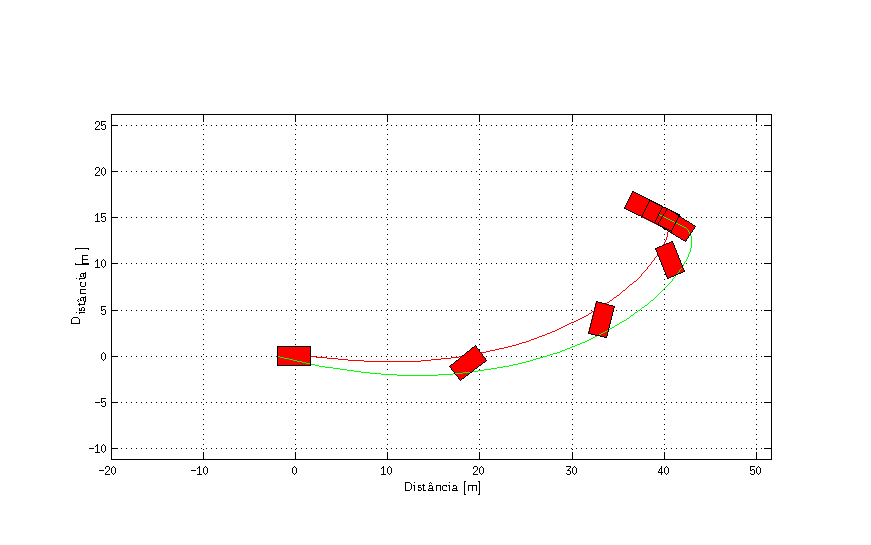
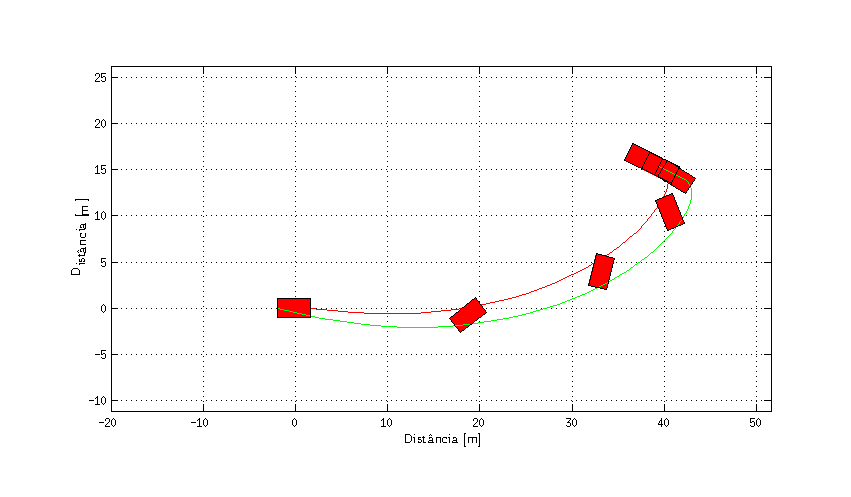
Figuras na pasta ilustracoes em svg

diff --git a/VeiculoArticuladoNaoLinear4GDL.html b/VeiculoArticuladoNaoLinear4GDL.html
@@ -67,7 +67,7 @@ table td { padding:7px 5px; text-align:left; vertical-align:top; border:1px soli
 
   </style></head><body><div class="content"><h1>Nonlinear 4 DOF articulated vehicle model</h1><!--introduction--><!--/introduction--><h2>Contents</h2><div><ul><li><a href="#1">Sintax</a></li><li><a href="#2">Arguments</a></li><li><a href="#3">Description</a></li><li><a href="#4">Code</a></li><li><a href="#7">Model</a></li><li><a href="#8">Matriz de massa</a></li><li><a href="#10">conversao</a></li><li><a href="#12">Properties</a></li><li><a href="#14">See Also</a></li></ul></div><h2>Sintax<a name="1"></a></h2><p><tt>dx = <i>VehicleModel</i>.Model(~,estados)</tt></p><h2>Arguments<a name="2"></a></h2><p>The following table describes the input arguments:</p><p> <table border=1 width="97%">
 <tr> <td width="30%"><tt>estados</tt></td> <td width="70%">Estados do modelo: [dPSI ALPHAT dPHI VEL PHI PSI XT YT]</td> </tr>
-</table> </p><h2>Description<a name="3"></a></h2><p>O &acirc;ngulo <img src="VeiculoArticuladoNaoLinear4GDL_eq46646.png" alt="$\psi$"> define a orienta&ccedil;&atilde;o do caminh&atilde;o-trator em rela&ccedil;&atilde;o ao referencial inercial. O estado <img src="VeiculoArticuladoNaoLinear4GDL_eq26509.png" alt="$\phi$"> &eacute; o &acirc;ngulo formado entre o caminh&atilde;o-trator e o semirreboque. O &acirc;ngulo <img src="VeiculoArticuladoNaoLinear4GDL_eq58160.png" alt="$\alpha_T$"> &eacute; o &acirc;ngulo de deriva do m&oacute;dulo dianteiro e &eacute; formado pelo vetor velocidade do centro de massa e a linha longitudinal do caminh&atilde;o-trator. Por fim, <img src="VeiculoArticuladoNaoLinear4GDL_eq77996.png" alt="$v$"> &eacute; o m&oacute;dulo do vetor velocidade do centro de massa do caminh&atilde;o-trator. Os pontos <img src="VeiculoArticuladoNaoLinear4GDL_eq57315.png" alt="$T$"> e <img src="VeiculoArticuladoNaoLinear4GDL_eq68961.png" alt="$S$"> s&atilde;o coincidentes com os centros de massa do caminh&atilde;o-trator e semirreboque, respectivamente. Os pontos F e R s&atilde;o coincidentes com os eixos dianteiro e traseiro do caminh&atilde;o-trator, respectivamente. M &eacute; o ponto que representa o eixo do semirreboque e A &eacute; o ponto de articula&ccedil;&atilde;o ente as duas unidades. As grandezas a, b e c da unidade motora s&atilde;o as dist&acirc;ncias entre os pontos F-T, T-R e R-A, respectivamente. Na unidade movida, d e e definem as dist&acirc;ncias entre os pontos A-S e S-M, respectivamente.</p><p><img vspace="5" hspace="5" src="ilustracoes/modeloArticulado.png" alt=""> </p><p>Este modelo &eacute; escrito na forma:</p><p><img src="VeiculoArticuladoNaoLinear4GDL_eq97379.png" alt="$$ M(x) \dot{x} = f(x)$$"></p><p>Onde <img src="VeiculoArticuladoNaoLinear4GDL_eq43551.png" alt="$x$"> &eacute; o vetor de estados, <img src="VeiculoArticuladoNaoLinear4GDL_eq58327.png" alt="$M(x)$"> &eacute; a matriz de massa do sistema e <img src="VeiculoArticuladoNaoLinear4GDL_eq37171.png" alt="$f(x)$"> &eacute; uma fun&ccedil;&atilde;o vetorial n&atilde;o linear. Logo, &eacute; necess&aacute;ria uma fun&ccedil;&atilde;o que permita a integra&ccedil;&atilde;o do sistema com a matriz de massa escrita explicitamente. Uma op&ccedil;&atilde;o &eacute; utilizar a fun&ccedil;&atilde;o <i>ode45</i>. Details: <a href="http://www.mathworks.com/help/matlab/ref/ode45.html?searchHighlight=%22mass%20matrix%22">ode45 (Mass matrix)</a></p><h2>Code<a name="4"></a></h2><pre class="codeinput"><span class="keyword">classdef</span> VeiculoArticuladoNaoLinear4GDL &lt; DinamicaVeicular.VeiculoArticulado
+</table> </p><h2>Description<a name="3"></a></h2><p>O &acirc;ngulo <img src="VeiculoArticuladoNaoLinear4GDL_eq46646.png" alt="$\psi$"> define a orienta&ccedil;&atilde;o do caminh&atilde;o-trator em rela&ccedil;&atilde;o ao referencial inercial. O estado <img src="VeiculoArticuladoNaoLinear4GDL_eq26509.png" alt="$\phi$"> &eacute; o &acirc;ngulo formado entre o caminh&atilde;o-trator e o semirreboque. O &acirc;ngulo <img src="VeiculoArticuladoNaoLinear4GDL_eq58160.png" alt="$\alpha_T$"> &eacute; o &acirc;ngulo de deriva do m&oacute;dulo dianteiro e &eacute; formado pelo vetor velocidade do centro de massa e a linha longitudinal do caminh&atilde;o-trator. Por fim, <img src="VeiculoArticuladoNaoLinear4GDL_eq77996.png" alt="$v$"> &eacute; o m&oacute;dulo do vetor velocidade do centro de massa do caminh&atilde;o-trator. Os pontos <img src="VeiculoArticuladoNaoLinear4GDL_eq57315.png" alt="$T$"> e <img src="VeiculoArticuladoNaoLinear4GDL_eq68961.png" alt="$S$"> s&atilde;o coincidentes com os centros de massa do caminh&atilde;o-trator e semirreboque, respectivamente. Os pontos F e R s&atilde;o coincidentes com os eixos dianteiro e traseiro do caminh&atilde;o-trator, respectivamente. M &eacute; o ponto que representa o eixo do semirreboque e A &eacute; o ponto de articula&ccedil;&atilde;o ente as duas unidades. As grandezas a, b e c da unidade motora s&atilde;o as dist&acirc;ncias entre os pontos F-T, T-R e R-A, respectivamente. Na unidade movida, d e e definem as dist&acirc;ncias entre os pontos A-S e S-M, respectivamente.</p><p><img vspace="5" hspace="5" src="ilustracoes/modeloArticulado.svg" alt=""> </p><p>Este modelo &eacute; escrito na forma:</p><p><img src="VeiculoArticuladoNaoLinear4GDL_eq97379.png" alt="$$ M(x) \dot{x} = f(x)$$"></p><p>Onde <img src="VeiculoArticuladoNaoLinear4GDL_eq43551.png" alt="$x$"> &eacute; o vetor de estados, <img src="VeiculoArticuladoNaoLinear4GDL_eq58327.png" alt="$M(x)$"> &eacute; a matriz de massa do sistema e <img src="VeiculoArticuladoNaoLinear4GDL_eq37171.png" alt="$f(x)$"> &eacute; uma fun&ccedil;&atilde;o vetorial n&atilde;o linear. Logo, &eacute; necess&aacute;ria uma fun&ccedil;&atilde;o que permita a integra&ccedil;&atilde;o do sistema com a matriz de massa escrita explicitamente. Uma op&ccedil;&atilde;o &eacute; utilizar a fun&ccedil;&atilde;o <i>ode45</i>. Details: <a href="http://www.mathworks.com/help/matlab/ref/ode45.html?searchHighlight=%22mass%20matrix%22">ode45 (Mass matrix)</a></p><h2>Code<a name="4"></a></h2><pre class="codeinput"><span class="keyword">classdef</span> VeiculoArticuladoNaoLinear4GDL &lt; DinamicaVeicular.VeiculoArticulado
 </pre><pre class="codeinput">	methods
 </pre><pre class="codeinput">        <span class="comment">% Constructor</span>
         <span class="keyword">function</span> self = VeiculoArticuladoNaoLinear4GDL(varargin)
@@ -137,7 +137,8 @@ table td { padding:7px 5px; text-align:left; vertical-align:top; border:1px soli
             <span class="comment">% Angulos de deriva n&atilde;o linear</span>
             ALPHAF = atan2((a*dPSI + VEL*sin(ALPHAT)),(VEL*cos(ALPHAT))) - DELTA;
             ALPHAR = atan2((-b*dPSI + VEL*sin(ALPHAT)),(VEL*cos(ALPHAT)));
-            ALPHAM = atan2(((d + e)*(dPHI - dPSI) + VEL*sin(ALPHAT + PHI) - b*dPSI*cos(PHI) - c*dPSI*cos(PHI)),(VEL*cos(ALPHAT + PHI) + b*dPSI*sin(PHI) + c*dPSI*sin(PHI)));
+            ALPHAM = atan2(((d + e)*(dPHI - dPSI) + VEL*sin(ALPHAT + PHI) - b*dPSI*cos(PHI) - <span class="keyword">...</span>
+                     c*dPSI*cos(PHI)),(VEL*cos(ALPHAT + PHI) + b*dPSI*sin(PHI) + c*dPSI*sin(PHI)));
 
             <span class="comment">% For&ccedil;as longitudinais</span>
             FxF = 0;
@@ -277,7 +278,7 @@ table td { padding:7px 5px; text-align:left; vertical-align:top; border:1px soli
 %% Description
 % O ângulo $\psi$ define a orientação do caminhão-trator em relação ao referencial inercial. O estado $\phi$ é o ângulo formado entre o caminhão-trator e o semirreboque. O ângulo $\alpha_T$ é o ângulo de deriva do módulo dianteiro e é formado pelo vetor velocidade do centro de massa e a linha longitudinal do caminhão-trator. Por fim, $v$ é o módulo do vetor velocidade do centro de massa do caminhão-trator. Os pontos $T$ e $S$ são coincidentes com os centros de massa do caminhão-trator e semirreboque, respectivamente. Os pontos F e R são coincidentes com os eixos dianteiro e traseiro do caminhão-trator, respectivamente. M é o ponto que representa o eixo do semirreboque e A é o ponto de articulação ente as duas unidades. As grandezas a, b e c da unidade motora são as distâncias entre os pontos F-T, T-R e R-A, respectivamente. Na unidade movida, d e e definem as distâncias entre os pontos A-S e S-M, respectivamente.
 %
-% <<ilustracoes/modeloArticulado.png>>
+% <<ilustracoes/modeloArticulado.svg>>
 %
 % Este modelo é escrito na forma:
 %
@@ -361,7 +362,8 @@ classdef VeiculoArticuladoNaoLinear4GDL < DinamicaVeicular.VeiculoArticulado
             % Angulos de deriva não linear
             ALPHAF = atan2((a*dPSI + VEL*sin(ALPHAT)),(VEL*cos(ALPHAT))) - DELTA;
             ALPHAR = atan2((-b*dPSI + VEL*sin(ALPHAT)),(VEL*cos(ALPHAT)));
-            ALPHAM = atan2(((d + e)*(dPHI - dPSI) + VEL*sin(ALPHAT + PHI) - b*dPSI*cos(PHI) - c*dPSI*cos(PHI)),(VEL*cos(ALPHAT + PHI) + b*dPSI*sin(PHI) + c*dPSI*sin(PHI)));
+            ALPHAM = atan2(((d + e)*(dPHI - dPSI) + VEL*sin(ALPHAT + PHI) - b*dPSI*cos(PHI) - ...
+                     c*dPSI*cos(PHI)),(VEL*cos(ALPHAT + PHI) + b*dPSI*sin(PHI) + c*dPSI*sin(PHI)));
 
             % Forças longitudinais
             FxF = 0;

diff --git a/index.html b/index.html
@@ -66,7 +66,7 @@ table td { padding:7px 5px; text-align:left; vertical-align:top; border:1px soli
 
 
   </style></head><body><div class="content"><h1>Din&acirc;mica Veicular</h1><!--introduction--><p>Este reposit&oacute;rio tem como objetivo servir de biblioteca de fun&ccedil;&otilde;es destinadas ao estudo de din&acirc;mica veicular.</p><!--/introduction--><h2>Contents</h2><div><ul><li><a href="#1">Instructions</a></li><li><a href="#2">Description</a></li><li><a href="#3">Templates</a></li><li><a href="#4">Tire model</a></li><li><a href="#5">Vehicle model</a></li><li><a href="#6">Graphics</a></li></ul></div><h2>Instructions<a name="1"></a></h2><p>Para a utiliza&ccedil;&atilde;o do pacote &eacute; necess&aacute;rio realizar os seguintes passos:</p><div><ul><li>Baixar o pacote Dinamica-Veicular clicando em "Download ZIP" na p&aacute;gina <a href="https://github.com/andresmendes/Dinamica-Veicular">https://github.com/andresmendes/Dinamica-Veicular</a>.</li><li>Salvar o pacote (pasta "+DinamicaVeicular") num <i>path</i> do MATLAB&reg; ou adicionar o caminho na lista de <i>paths</i>. Mais detalhes em <a href="http://www.mathworks.com/help/matlab/ref/path.html">help path</a>.</li><li>Importar o pacote inteiro com o comando:</li></ul></div><pre class="codeinput">import <span class="string">DinamicaVeicular.*</span>
-</pre><h2>Description<a name="2"></a></h2><p>Este reposit&oacute;rio &eacute; destinado &agrave; organizar as fun&ccedil;&otilde;es necess&aacute;rias para a integra&ccedil;&atilde;o num&eacute;rica das equa&ccedil;&otilde;es de movimento de ve&iacute;culos e ilustrar o resultado. A estrutura m&iacute;nima de simula&ccedil;&atilde;o se encontra no fluxograma abaixo. Com os par&acirc;metros de integra&ccedil;&atilde;o e condi&ccedil;&otilde;es iniciais o modelo do sistema pode ser integrado para a obten&ccedil;&atilde;o da evolu&ccedil;&atilde;o dos estados em fun&ccedil;&atilde;o do tempo. O modelo do sistema consiste na combina&ccedil;&atilde;o do modelo de ve&iacute;culo com o modelo de pneu e seus respectivos par&acirc;metros. Por fim, &eacute; poss&iacute;vel gerar os gr&aacute;ficos &agrave; partir dos resultados. Portanto, as fun&ccedil;&otilde;es dispon&iacute;veis neste reposit&oacute;rio procuram realizar as tarefas representadas pelos blocos de <b>modelo de ve&iacute;culo</b>, <b>modelo de pneu</b> e <b>gr&aacute;ficos</b>.</p><p><img vspace="5" hspace="5" src="ilustracoes/fluxograma.png" alt=""> </p><h2>Templates<a name="3"></a></h2><p>Os templates realizam uma simula&ccedil;&atilde;o de ve&iacute;culo utilizando os elementos descritos no fluxograma acima. Para auxiliar os primeiros passos na utiliza&ccedil;&atilde;o das fun&ccedil;&otilde;es est&atilde;o dispon&iacute;veis dois templates:</p><div><ul><li>Simula&ccedil;&atilde;o de ve&iacute;culo simples: <a href="TemplateSimples.html">TemplateSimples.m</a></li><li>Simula&ccedil;&atilde;o de ve&iacute;culo articulado: <a href="TemplateArticulado.html">TemplateArticulado.m</a></li></ul></div><h2>Tire model<a name="4"></a></h2><p>Rela&ccedil;&atilde;o entre a for&ccedil;a lateral e o &acirc;ngulo de deriva.</p><p>Modelos de pneu:</p><div><ul><li><a href="PneuLinear.html">Pneu Linar</a></li><li><a href="PneuPolinomial.html">Pneu Polinomial</a></li><li><a href="PneuPacejka1989.html">Pneu Pacejka</a></li></ul></div><p>Extra:</p><div><ul><li><a href="ComparacaoPneu.html">Compara&ccedil;&atilde;o pneu</a></li></ul></div><p>Outros: <a href="Pneu.html">Pneu (Abstract)</a></p><h2>Vehicle model<a name="5"></a></h2><p>Fun&ccedil;&atilde;o com a equa&ccedil;&atilde;o de estados do modelo.</p><p>Modelo de ve&iacute;culo:</p><div><ul><li><a href="VeiculoSimplesLinear2GDL.html">Veiculo Simples Linear 2 GDL</a> (Pendente)</li><li><a href="VeiculoSimplesNaoLinear3GDL.html">Veiculo Simples N&atilde;o Linear 3 GDL</a></li><li><a href="VeiculoArticuladoLinear4GDL.html">Veiculo Articulado Linear 3 GDL</a> (Pendente)</li><li><a href="VeiculoArticuladoNaoLinear4GDL.html">Veiculo Articulado N&atilde;o Linear 4 GDL</a></li></ul></div><p>Outros: <a href="VeiculoSimples.html">Veiculo simples (Abstract)</a> | <a href="VeiculoArticulado.html">Veiculo articulado (Abstract)</a></p><h2>Graphics<a name="6"></a></h2><p>Fun&ccedil;&otilde;es para a gera&ccedil;&atilde;o de ilustra&ccedil;&otilde;es: <a href="Graficos.html">Graficos</a>.</p><p class="footer"><br><a href="http://www.mathworks.com/products/matlab/">Published with MATLAB&reg; R2013a</a><br></p></div><!--
+</pre><h2>Description<a name="2"></a></h2><p>Este reposit&oacute;rio &eacute; destinado &agrave; organizar as fun&ccedil;&otilde;es necess&aacute;rias para a integra&ccedil;&atilde;o num&eacute;rica das equa&ccedil;&otilde;es de movimento de ve&iacute;culos e ilustrar o resultado. A estrutura m&iacute;nima de simula&ccedil;&atilde;o se encontra no fluxograma abaixo. Com os par&acirc;metros de integra&ccedil;&atilde;o e condi&ccedil;&otilde;es iniciais o modelo do sistema pode ser integrado para a obten&ccedil;&atilde;o da evolu&ccedil;&atilde;o dos estados em fun&ccedil;&atilde;o do tempo. O modelo do sistema consiste na combina&ccedil;&atilde;o do modelo de ve&iacute;culo com o modelo de pneu e seus respectivos par&acirc;metros. Por fim, &eacute; poss&iacute;vel gerar os gr&aacute;ficos &agrave; partir dos resultados. Portanto, as fun&ccedil;&otilde;es dispon&iacute;veis neste reposit&oacute;rio procuram realizar as tarefas representadas pelos blocos de <b>modelo de ve&iacute;culo</b>, <b>modelo de pneu</b> e <b>gr&aacute;ficos</b>.</p><p><img vspace="5" hspace="5" src="ilustracoes/fluxograma.svg" alt=""> </p><h2>Templates<a name="3"></a></h2><p>Os templates realizam uma simula&ccedil;&atilde;o de ve&iacute;culo utilizando os elementos descritos no fluxograma acima. Para auxiliar os primeiros passos na utiliza&ccedil;&atilde;o das fun&ccedil;&otilde;es est&atilde;o dispon&iacute;veis dois templates:</p><div><ul><li>Simula&ccedil;&atilde;o de ve&iacute;culo simples: <a href="TemplateSimples.html">TemplateSimples.m</a></li><li>Simula&ccedil;&atilde;o de ve&iacute;culo articulado: <a href="TemplateArticulado.html">TemplateArticulado.m</a></li></ul></div><h2>Tire model<a name="4"></a></h2><p>Rela&ccedil;&atilde;o entre a for&ccedil;a lateral e o &acirc;ngulo de deriva.</p><p>Modelos de pneu:</p><div><ul><li><a href="PneuLinear.html">Pneu Linar</a></li><li><a href="PneuPolinomial.html">Pneu Polinomial</a></li><li><a href="PneuPacejka1989.html">Pneu Pacejka</a></li></ul></div><p>Extra:</p><div><ul><li><a href="ComparacaoPneu.html">Compara&ccedil;&atilde;o pneu</a></li></ul></div><p>Outros: <a href="Pneu.html">Pneu (Abstract)</a></p><h2>Vehicle model<a name="5"></a></h2><p>Fun&ccedil;&atilde;o com a equa&ccedil;&atilde;o de estados do modelo.</p><p>Modelo de ve&iacute;culo:</p><div><ul><li><a href="VeiculoSimplesLinear2GDL.html">Veiculo Simples Linear 2 GDL</a> (Pendente)</li><li><a href="VeiculoSimplesNaoLinear3GDL.html">Veiculo Simples N&atilde;o Linear 3 GDL</a></li><li><a href="VeiculoArticuladoLinear4GDL.html">Veiculo Articulado Linear 3 GDL</a> (Pendente)</li><li><a href="VeiculoArticuladoNaoLinear4GDL.html">Veiculo Articulado N&atilde;o Linear 4 GDL</a></li></ul></div><p>Outros: <a href="VeiculoSimples.html">Veiculo simples (Abstract)</a> | <a href="VeiculoArticulado.html">Veiculo articulado (Abstract)</a></p><h2>Graphics<a name="6"></a></h2><p>Fun&ccedil;&otilde;es para a gera&ccedil;&atilde;o de ilustra&ccedil;&otilde;es: <a href="Graficos.html">Graficos</a>.</p><p class="footer"><br><a href="http://www.mathworks.com/products/matlab/">Published with MATLAB&reg; R2013a</a><br></p></div><!--
 ##### SOURCE BEGIN #####
 %% Dinâmica Veicular
 % Este repositório tem como objetivo servir de biblioteca de funções destinadas ao estudo de dinâmica veicular.
@@ -84,7 +84,7 @@ import DinamicaVeicular.*
 %% Description
 % Este repositório é destinado à organizar as funções necessárias para a integração numérica das equações de movimento de veículos e ilustrar o resultado. A estrutura mínima de simulação se encontra no fluxograma abaixo. Com os parâmetros de integração e condições iniciais o modelo do sistema pode ser integrado para a obtenção da evolução dos estados em função do tempo. O modelo do sistema consiste na combinação do modelo de veículo com o modelo de pneu e seus respectivos parâmetros. Por fim, é possível gerar os gráficos à partir dos resultados. Portanto, as funções disponíveis neste repositório procuram realizar as tarefas representadas pelos blocos de *modelo de veículo*, *modelo de pneu* e *gráficos*.
 %
-% <<ilustracoes/fluxograma.png>>
+% <<ilustracoes/fluxograma.svg>>
 %
 %% Templates
 % Os templates realizam uma simulação de veículo utilizando os elementos descritos no fluxograma acima.

diff --git a/ComparacaoPneu.html b/ComparacaoPneu.html
@@ -65,7 +65,7 @@ table td { padding:7px 5px; text-align:left; vertical-align:top; border:1px soli
 
 
 
-  </style></head><body><div class="content"><h1>Tire comparison</h1><!--introduction--><p>Compara&ccedil;&atilde;o entre os modelos de pneu: <a href="PneuLinear.html">linear</a>, <a href="PneuPolinomial.html">polinomial</a> e <a href="PneuPacejka1989.html">Pacejka 1989</a>.</p><!--/introduction--><h2>Contents</h2><div><ul><li><a href="#1">Description</a></li><li><a href="#2">Equival&ecirc;ncia</a></li><li><a href="#3">Compara&ccedil;&atilde;o dos modelos</a></li><li><a href="#5">Compara&ccedil;&atilde;o tratamento do &acirc;ngulo de deriva</a></li><li><a href="#7">References</a></li><li><a href="#8">See Also</a></li></ul></div><h2>Description<a name="1"></a></h2><p>O modelo de pneu relaciona a for&ccedil;a lateral com o &acirc;ngulo de deriva (&Acirc;ngulo formado entre o vetor velocidade do centro do pneu com o plano longitudinal do pneu). A rela&ccedil;&atilde;o t&iacute;pica entre essas duas grandezas pode ser observada na figura abaixo (Adaptado de [1]). Al&eacute;m disso &eacute; poss&iacute;vel verificar a defini&ccedil;&atilde;o do &acirc;ngulo de deriva.</p><p><img vspace="5" hspace="5" src="ilustracoes/CurvaCaracteristica.png" alt=""> </p><h2>Equival&ecirc;ncia<a name="2"></a></h2><p>Supondo um modelo de pneu <a href="PneuPacejka1989.html">Pacejka 1989</a> de refer&ecirc;ncia &eacute; poss&iacute;vel obter um modelo <a href="PneuLinear.html">linear</a> e <a href="PneuPolinomial.html">polinomial</a> equivalente. Isto &eacute; feito igualando o coeficiente de rigidez lateral dos tr&ecirc;s modelos e igualando a for&ccedil;a lateral m&aacute;xima dos modelos <a href="PneuPolinomial.html">polinomial</a> e <a href="PneuPacejka1989.html">Pacejka 1989</a>.</p><p>O modelo <a href="PneuPacejka1989.html">Pacejka 1989</a> &eacute; caracterizado essencialmente pelos par&acirc;metros <img src="ComparacaoPneu_eq45610.png" alt="$a_0$">, <img src="ComparacaoPneu_eq32432.png" alt="$a_1$">, <img src="ComparacaoPneu_eq12549.png" alt="$a_2$">, <img src="ComparacaoPneu_eq58660.png" alt="$a_3$">, <img src="ComparacaoPneu_eq25467.png" alt="$a_4$">, <img src="ComparacaoPneu_eq87750.png" alt="$a_5$">, <img src="ComparacaoPneu_eq14147.png" alt="$a_6$"> e <img src="ComparacaoPneu_eq94571.png" alt="$a_7$"> que d&atilde;o origem aos coeficientes <img src="ComparacaoPneu_eq73617.png" alt="$B$">, <img src="ComparacaoPneu_eq22407.png" alt="$C$">, <img src="ComparacaoPneu_eq35719.png" alt="$D$"> e <img src="ComparacaoPneu_eq85525.png" alt="$E$"> que podem ser usados na defini&ccedil;&atilde;o dos coeficientes dos modelos equivalentes.</p><p>O modelo <a href="PneuLinear.html">linear</a> equivalente possui cornering stiffness <img src="ComparacaoPneu_eq14888.png" alt="$K$"> dado por:</p><p><img src="ComparacaoPneu_eq89897.png" alt="$$ K = B C D$$"></p><p>O modelo <a href="PneuPolinomial.html">polinomial</a> equivalente possui coeficientes <img src="ComparacaoPneu_eq27372.png" alt="$k_1$"> e <img src="ComparacaoPneu_eq32346.png" alt="$k_2$"> dados por:</p><p><img src="ComparacaoPneu_eq79966.png" alt="$$ k_1 = B C D $$"></p><p><img src="ComparacaoPneu_eq36416.png" alt="$$ k_2 = (4 k_1^3)/(27 F_{y,Max}^2) $$"></p><p>Onde <img src="ComparacaoPneu_eq62432.png" alt="$F_{y,Max}$"> &eacute; a for&ccedil;a lateral m&aacute;xima da curva caracter&iacute;stica de refer&ecirc;ncia.</p><h2>Compara&ccedil;&atilde;o dos modelos<a name="3"></a></h2><pre class="codeinput"><span class="comment">% Code start</span>
+  </style></head><body><div class="content"><h1>Tire comparison</h1><!--introduction--><p>Compara&ccedil;&atilde;o entre os modelos de pneu: <a href="PneuLinear.html">linear</a>, <a href="PneuPolinomial.html">polinomial</a> e <a href="PneuPacejka1989.html">Pacejka 1989</a>.</p><!--/introduction--><h2>Contents</h2><div><ul><li><a href="#1">Description</a></li><li><a href="#2">Equival&ecirc;ncia</a></li><li><a href="#3">Compara&ccedil;&atilde;o dos modelos</a></li><li><a href="#5">Compara&ccedil;&atilde;o tratamento do &acirc;ngulo de deriva</a></li><li><a href="#7">References</a></li><li><a href="#8">See Also</a></li></ul></div><h2>Description<a name="1"></a></h2><p>O modelo de pneu relaciona a for&ccedil;a lateral com o &acirc;ngulo de deriva (&Acirc;ngulo formado entre o vetor velocidade do centro do pneu com o plano longitudinal do pneu). A rela&ccedil;&atilde;o t&iacute;pica entre essas duas grandezas pode ser observada na figura abaixo (Adaptado de [1]). Al&eacute;m disso &eacute; poss&iacute;vel verificar a defini&ccedil;&atilde;o do &acirc;ngulo de deriva.</p><p><img vspace="5" hspace="5" src="ilustracoes/CurvaCaracteristica.svg" alt=""> </p><h2>Equival&ecirc;ncia<a name="2"></a></h2><p>Supondo um modelo de pneu <a href="PneuPacejka1989.html">Pacejka 1989</a> de refer&ecirc;ncia &eacute; poss&iacute;vel obter um modelo <a href="PneuLinear.html">linear</a> e <a href="PneuPolinomial.html">polinomial</a> equivalente. Isto &eacute; feito igualando o coeficiente de rigidez lateral dos tr&ecirc;s modelos e igualando a for&ccedil;a lateral m&aacute;xima dos modelos <a href="PneuPolinomial.html">polinomial</a> e <a href="PneuPacejka1989.html">Pacejka 1989</a>.</p><p>O modelo <a href="PneuPacejka1989.html">Pacejka 1989</a> &eacute; caracterizado essencialmente pelos par&acirc;metros <img src="ComparacaoPneu_eq45610.png" alt="$a_0$">, <img src="ComparacaoPneu_eq32432.png" alt="$a_1$">, <img src="ComparacaoPneu_eq12549.png" alt="$a_2$">, <img src="ComparacaoPneu_eq58660.png" alt="$a_3$">, <img src="ComparacaoPneu_eq25467.png" alt="$a_4$">, <img src="ComparacaoPneu_eq87750.png" alt="$a_5$">, <img src="ComparacaoPneu_eq14147.png" alt="$a_6$"> e <img src="ComparacaoPneu_eq94571.png" alt="$a_7$"> que d&atilde;o origem aos coeficientes <img src="ComparacaoPneu_eq73617.png" alt="$B$">, <img src="ComparacaoPneu_eq22407.png" alt="$C$">, <img src="ComparacaoPneu_eq35719.png" alt="$D$"> e <img src="ComparacaoPneu_eq85525.png" alt="$E$"> que podem ser usados na defini&ccedil;&atilde;o dos coeficientes dos modelos equivalentes.</p><p>O modelo <a href="PneuLinear.html">linear</a> equivalente possui cornering stiffness <img src="ComparacaoPneu_eq14888.png" alt="$K$"> dado por:</p><p><img src="ComparacaoPneu_eq89897.png" alt="$$ K = B C D$$"></p><p>O modelo <a href="PneuPolinomial.html">polinomial</a> equivalente possui coeficientes <img src="ComparacaoPneu_eq27372.png" alt="$k_1$"> e <img src="ComparacaoPneu_eq32346.png" alt="$k_2$"> dados por:</p><p><img src="ComparacaoPneu_eq79966.png" alt="$$ k_1 = B C D $$"></p><p><img src="ComparacaoPneu_eq36416.png" alt="$$ k_2 = (4 k_1^3)/(27 F_{y,Max}^2) $$"></p><p>Onde <img src="ComparacaoPneu_eq62432.png" alt="$F_{y,Max}$"> &eacute; a for&ccedil;a lateral m&aacute;xima da curva caracter&iacute;stica de refer&ecirc;ncia.</p><h2>Compara&ccedil;&atilde;o dos modelos<a name="3"></a></h2><pre class="codeinput"><span class="comment">% Code start</span>
 
 clear <span class="string">all</span>                   <span class="comment">% Clear workspace</span>
 close <span class="string">all</span>                   <span class="comment">% Closing figures</span>
@@ -176,7 +176,7 @@ set(l,<span class="string">'Interpreter'</span>,<span class="string">'Latex'</sp
 % ser observada na figura abaixo (Adaptado de [1]). Além disso é possível verificar a
 % definição do ângulo de deriva.
 %
-% <<ilustracoes/CurvaCaracteristica.png>>
+% <<ilustracoes/CurvaCaracteristica.svg>>
 %
 %% Equivalência
 % Supondo um modelo de pneu <PneuPacejka1989.html Pacejka 1989> de referência é possível obter um modelo <PneuLinear.html linear> e <PneuPolinomial.html polinomial> equivalente. Isto é feito igualando o coeficiente de rigidez lateral dos três modelos e igualando a força lateral máxima dos modelos <PneuPolinomial.html polinomial> e <PneuPacejka1989.html Pacejka 1989>.

diff --git a/VeiculoSimplesNaoLinear3GDL.html b/VeiculoSimplesNaoLinear3GDL.html
@@ -67,7 +67,7 @@ table td { padding:7px 5px; text-align:left; vertical-align:top; border:1px soli
 
   </style></head><body><div class="content"><h1>Nonlinear 3 DOF vehicle model</h1><!--introduction--><p>Modelo bicicleta n&atilde;o linear com 3 graus de liberdade.</p><!--/introduction--><h2>Contents</h2><div><ul><li><a href="#1">Sintax</a></li><li><a href="#2">Arguments</a></li><li><a href="#3">Description</a></li><li><a href="#4">Code</a></li><li><a href="#7">Model</a></li><li><a href="#9">conversao</a></li><li><a href="#11">Properties</a></li><li><a href="#13">See Also</a></li></ul></div><h2>Sintax<a name="1"></a></h2><p><tt>dx = <i>VehicleModel</i>.Model(~,estados)</tt></p><h2>Arguments<a name="2"></a></h2><p>The following table describes the input arguments:</p><p> <table border=1 width="97%">
 <tr> <td width="30%"><tt>estados</tt></td> <td width="70%">Estados do modelo: [dPSI ALPHAT PSI XT YT VEL]</td> </tr>
-</table> </p><h2>Description<a name="3"></a></h2><p>O centro de massa do ve&iacute;culo &eacute; dado pelo ponto <img src="VeiculoSimplesNaoLinear3GDL_eq57315.png" alt="$T$"> e os eixos dianteiro e traseiro s&atilde;o dados pelos pontos <img src="VeiculoSimplesNaoLinear3GDL_eq86924.png" alt="$F$"> e <img src="VeiculoSimplesNaoLinear3GDL_eq85930.png" alt="$R$">, respectivamente. A constante <img src="VeiculoSimplesNaoLinear3GDL_eq34276.png" alt="$a$"> mede a dist&acirc;ncia do ponto <img src="VeiculoSimplesNaoLinear3GDL_eq86924.png" alt="$F$"> ao <img src="VeiculoSimplesNaoLinear3GDL_eq57315.png" alt="$T$"> e <img src="VeiculoSimplesNaoLinear3GDL_eq28812.png" alt="$b$"> a dist&acirc;ncia do ponto <img src="VeiculoSimplesNaoLinear3GDL_eq57315.png" alt="$T$"> ao <img src="VeiculoSimplesNaoLinear3GDL_eq85930.png" alt="$R$">. Os &acirc;ngulos <img src="VeiculoSimplesNaoLinear3GDL_eq95504.png" alt="$\alpha_F$"> e <img src="VeiculoSimplesNaoLinear3GDL_eq04922.png" alt="$\alpha_R$"> s&atilde;o os &acirc;ngulos de deriva nos eixos dianteiro e traseiro. <img src="VeiculoSimplesNaoLinear3GDL_eq58160.png" alt="$\alpha_T$"> is the vehicle side slip angle and <img src="VeiculoSimplesNaoLinear3GDL_eq46646.png" alt="$\psi$"> is the vehicle yaw angle. Por fim, <img src="VeiculoSimplesNaoLinear3GDL_eq71031.png" alt="$\delta$"> &eacute; o &acirc;ngulo de ester&ccedil;amento.</p><p><img vspace="5" hspace="5" src="ilustracoes/modeloSimples.png" alt=""> </p><h2>Code<a name="4"></a></h2><pre class="codeinput"><span class="keyword">classdef</span> VeiculoSimplesNaoLinear3GDL &lt; DinamicaVeicular.VeiculoSimples
+</table> </p><h2>Description<a name="3"></a></h2><p>O centro de massa do ve&iacute;culo &eacute; dado pelo ponto <img src="VeiculoSimplesNaoLinear3GDL_eq57315.png" alt="$T$"> e os eixos dianteiro e traseiro s&atilde;o dados pelos pontos <img src="VeiculoSimplesNaoLinear3GDL_eq86924.png" alt="$F$"> e <img src="VeiculoSimplesNaoLinear3GDL_eq85930.png" alt="$R$">, respectivamente. A constante <img src="VeiculoSimplesNaoLinear3GDL_eq34276.png" alt="$a$"> mede a dist&acirc;ncia do ponto <img src="VeiculoSimplesNaoLinear3GDL_eq86924.png" alt="$F$"> ao <img src="VeiculoSimplesNaoLinear3GDL_eq57315.png" alt="$T$"> e <img src="VeiculoSimplesNaoLinear3GDL_eq28812.png" alt="$b$"> a dist&acirc;ncia do ponto <img src="VeiculoSimplesNaoLinear3GDL_eq57315.png" alt="$T$"> ao <img src="VeiculoSimplesNaoLinear3GDL_eq85930.png" alt="$R$">. Os &acirc;ngulos <img src="VeiculoSimplesNaoLinear3GDL_eq95504.png" alt="$\alpha_F$"> e <img src="VeiculoSimplesNaoLinear3GDL_eq04922.png" alt="$\alpha_R$"> s&atilde;o os &acirc;ngulos de deriva nos eixos dianteiro e traseiro. <img src="VeiculoSimplesNaoLinear3GDL_eq58160.png" alt="$\alpha_T$"> is the vehicle side slip angle and <img src="VeiculoSimplesNaoLinear3GDL_eq46646.png" alt="$\psi$"> is the vehicle yaw angle. Por fim, <img src="VeiculoSimplesNaoLinear3GDL_eq71031.png" alt="$\delta$"> &eacute; o &acirc;ngulo de ester&ccedil;amento.</p><p><img vspace="5" hspace="5" src="ilustracoes/modeloSimples.svg" alt=""> </p><h2>Code<a name="4"></a></h2><pre class="codeinput"><span class="keyword">classdef</span> VeiculoSimplesNaoLinear3GDL &lt; DinamicaVeicular.VeiculoSimples
 </pre><pre class="codeinput">	methods
 </pre><pre class="codeinput">        <span class="comment">% Constructor</span>
         <span class="keyword">function</span> self = VeiculoSimplesNaoLinear3GDL(varargin)
@@ -180,7 +180,7 @@ table td { padding:7px 5px; text-align:left; vertical-align:top; border:1px soli
 %% Description
 % O centro de massa do veículo é dado pelo ponto $T$ e os eixos dianteiro e traseiro são dados pelos pontos $F$ e $R$, respectivamente. A constante $a$ mede a distância do ponto $F$ ao $T$ e $b$ a distância do ponto $T$ ao $R$. Os ângulos $\alpha_F$ e $\alpha_R$ são os ângulos de deriva nos eixos dianteiro e traseiro. $\alpha_T$ is the vehicle side slip angle and $\psi$ is the vehicle yaw angle. Por fim, $\delta$ é o ângulo de esterçamento.
 %
-% <<ilustracoes/modeloSimples.png>>
+% <<ilustracoes/modeloSimples.svg>>
 %
 %% Code
 %
